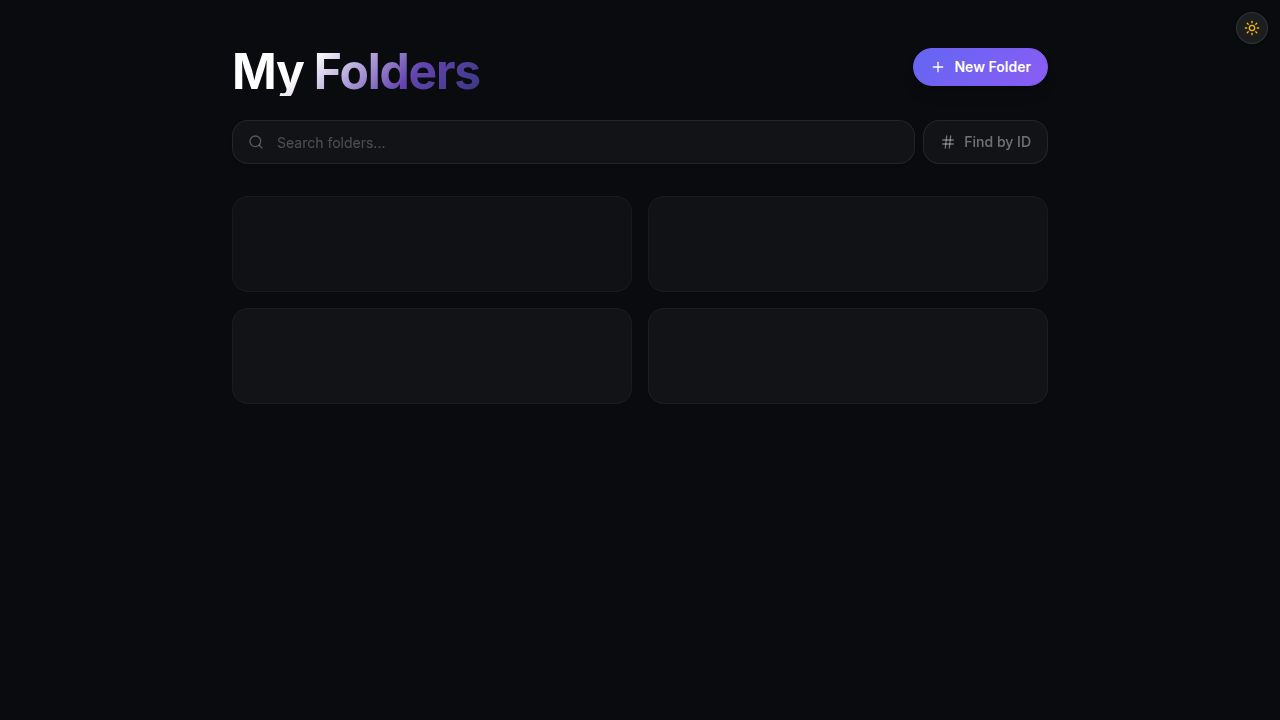
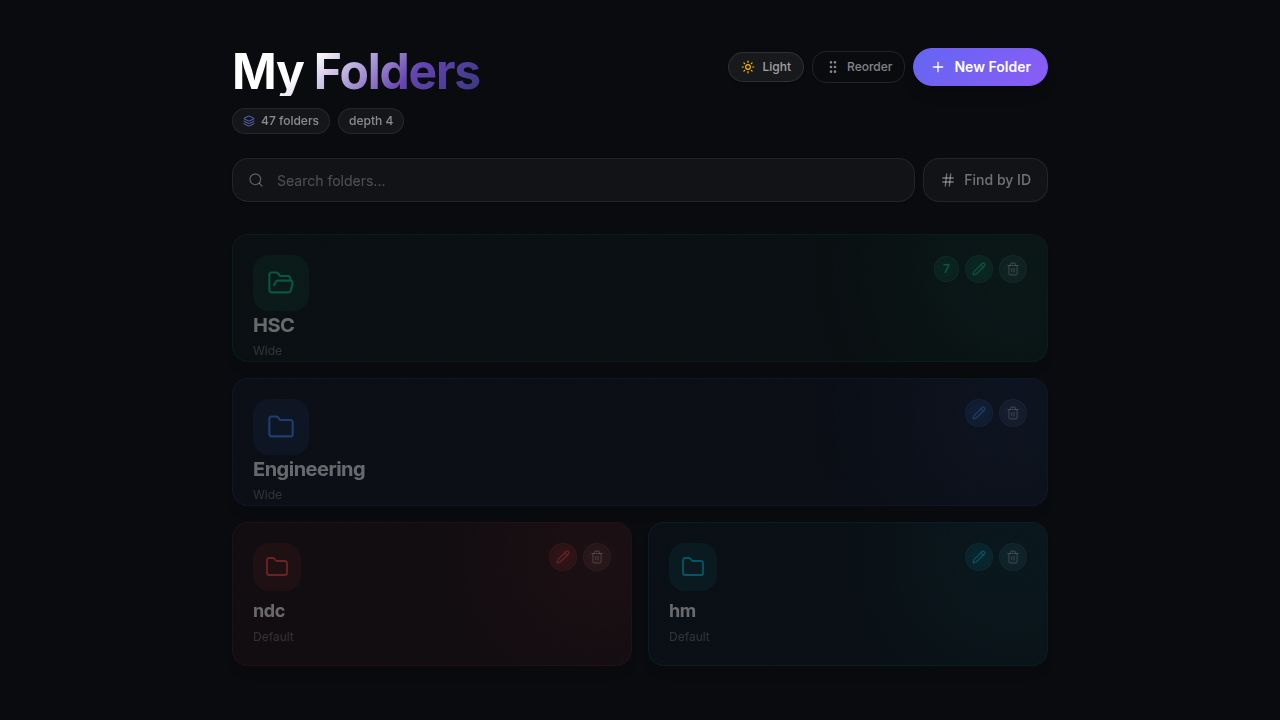
Add image zoom and protect content while fixing exam result display
Introduce image zoom functionality with a lightbox, prevent content copying from images, and remove unnecessary elements from the exam results screen.

Replit-Commit-Author: Agent
Replit-Commit-Session-Id: decb9cae-3adf-4033-99ce-917f5bf31aae
Replit-Commit-Checkpoint-Type: full_checkpoint
Replit-Commit-Event-Id: 59363995-9468-4ee9-b869-a151f555bab7
Replit-Commit-Screenshot-Url: https://storage.googleapis.com/screenshot-production-us-central1/35fb9501-b802-43f6-bf9f-67f5e1f770c3/decb9cae-3adf-4033-99ce-917f5bf31aae/bYCz18d
Replit-Helium-Checkpoint-Created: true

diff --git a/artifacts/folder-app/src/pages/QuestionSetView.tsx b/artifacts/folder-app/src/pages/QuestionSetView.tsx
@@ -112,6 +112,7 @@ interface QCardProps {
   examSubmitted?: boolean;
   onExamSelect?: (letter: string) => void;
   cardRef?: (el: HTMLDivElement | null) => void;
+  onImageZoom?: (url: string) => void;
   // multi-select
   selectMode?: boolean;
   selected?: boolean;
@@ -122,7 +123,7 @@ interface QCardProps {
 
 function QuestionCard({ q, serialNum, totalCount, onUpdated, onDeleted, onReorderToPosition,
   mode, practiceSelected, practiceRevealed, onPracticeSelect,
-  examSelected, examSubmitted, onExamSelect, cardRef,
+  examSelected, examSubmitted, onExamSelect, cardRef, onImageZoom,
   selectMode, selected, onToggleSelect, isHighlighted, isLight = false }: QCardProps) {
   const { toast } = useToast();
   const [editing, setEditing] = useState(false);
@@ -536,7 +537,13 @@ function QuestionCard({ q, serialNum, totalCount, onUpdated, onDeleted, onReorde
             {q.stemImages && q.stemImages.length > 0 && (
               <div className="mb-3 space-y-2">
                 {q.stemImages.map((url, i) => url && (
-                  <img key={i} src={url} alt="" loading="lazy" className="max-w-full rounded-lg border border-white/15 bg-white p-1" onError={handleStemImageError} />
+                  <img key={i} src={url} alt="" loading="lazy"
+                    draggable={false}
+                    className="max-w-full rounded-lg border border-white/15 bg-white p-1 select-none cursor-zoom-in"
+                    style={{ userSelect: "none" }}
+                    onError={handleStemImageError}
+                    onContextMenu={e => e.preventDefault()}
+                    onClick={() => onImageZoom?.(url)} />
                 ))}
               </div>
             )}
@@ -1322,8 +1329,6 @@ function ExamResults({ questions, examAnswers, onRetry, onBack, negativeMarking 
                           <span className="relative z-[1] font-bold w-4" style={{ color: ltrColor }}>{opt.letter}</span>
                           <span className="relative z-[1] flex-1" style={{ color: txtColor }}><MathText text={opt.text} imageBlock={false} /></span>
                           <span className="relative z-[1] text-[11px] font-bold tabular-nums flex-shrink-0" style={{ color: pctColor }}>{pct}%</span>
-                          {showGreen && <Check className="relative z-[1] w-3.5 h-3.5 flex-shrink-0" style={{ color: isLight ? "#15803d" : "#4ade80" }} />}
-                          {showSky && <span className="relative z-[1] text-[10px] font-semibold flex-shrink-0" style={{ color: isLight ? "#0284c7" : "#38bdf8" }}>ans</span>}
                         </div>
                       );
                     })}
@@ -1475,6 +1480,9 @@ export function QuestionSetView() {
   const [examAutoScroll, setExamAutoScroll] = useState(false);
 
   const cardRefs = useRef<(HTMLDivElement | null)[]>([]);
+  // Pending scroll: set inside a setState updater, consumed by useEffect after commit
+  const pendingScrollRef = useRef<{ idx: number; footerH: number } | null>(null);
+  const [zoomedImg, setZoomedImg] = useState<string | null>(null);
 
   // Scroll a card into the visible band between the fixed header and optional footer.
   // Uses window.scrollBy so it works regardless of scroll-container nesting.
@@ -1491,6 +1499,16 @@ export function QuestionSetView() {
     if (Math.abs(delta) < 8) return;
     window.scrollBy({ top: delta, behavior: "smooth" });
   }, []);
+
+  // Execute pending scroll AFTER React commits the state update to DOM
+  useEffect(() => {
+    if (!pendingScrollRef.current) return;
+    const { idx, footerH } = pendingScrollRef.current;
+    pendingScrollRef.current = null;
+    const t = setTimeout(() => smoothScrollToCard(idx, footerH), 40);
+    return () => clearTimeout(t);
+  // eslint-disable-next-line react-hooks/exhaustive-deps
+  }, [practiceCurrentIdx, examCurrentIdx, smoothScrollToCard]);
 
   const questions = localQuestions ?? data?.questions ?? [];
   const visible = questions.filter(q => !q.hidden);
@@ -1579,13 +1597,14 @@ export function QuestionSetView() {
         setPracticeCurrentIdx(prev => {
           const nextIdx = visible.findIndex((q, i) => i > prev && !practiceAnswers[q.id] && q.id !== questionId);
           const advance = nextIdx !== -1 ? nextIdx : prev + 1 < visible.length ? prev + 1 : prev;
-          smoothScrollToCard(advance, PRACTICE_FOOTER);
+          // Store target; useEffect will run smoothScrollToCard after commit
+          pendingScrollRef.current = { idx: advance, footerH: PRACTICE_FOOTER };
           return advance;
         });
       }, 900);
     }
   // eslint-disable-next-line react-hooks/exhaustive-deps
-  }, [visible, practiceAnswers, autoScroll, smoothScrollToCard]);
+  }, [visible, practiceAnswers, autoScroll]);
 
   const handleExamSelect = useCallback((questionId: number, letter: string) => {
     setExamAnswers(prev => ({ ...prev, [questionId]: letter }));
@@ -1594,13 +1613,51 @@ export function QuestionSetView() {
         setExamCurrentIdx(prev => {
           const nextIdx = visible.findIndex((q, i) => i > prev && !examAnswers[q.id] && q.id !== questionId);
           const advance = nextIdx !== -1 ? nextIdx : prev + 1 < visible.length ? prev + 1 : prev;
-          smoothScrollToCard(advance, EXAM_FOOTER);
+          pendingScrollRef.current = { idx: advance, footerH: EXAM_FOOTER };
           return advance;
         });
       }, 700);
     }
   // eslint-disable-next-line react-hooks/exhaustive-deps
-  }, [visible, examAnswers, examAutoScroll, smoothScrollToCard]);
+  }, [visible, examAnswers, examAutoScroll]);
+
+  // Keyboard shortcuts: A/B/C/D select MCQ option, ←/→ navigate between questions
+  useEffect(() => {
+    const inPractice = mode === "practice";
+    const inExam = mode === "exam" && examStarted && !examSubmitted;
+    if (!inPractice && !inExam) return;
+    const onKey = (e: KeyboardEvent) => {
+      const tag = (e.target as HTMLElement).tagName;
+      if (tag === "INPUT" || tag === "TEXTAREA" || (e.target as HTMLElement).isContentEditable) return;
+      const key = e.key;
+      const keyLow = key.toLowerCase();
+      const OPTS = ["a", "b", "c", "d", "e"];
+      if (inPractice) {
+        const cq = visible[practiceCurrentIdx];
+        if (OPTS.includes(keyLow) && cq?.type === "mcq" && !practiceAnswers[cq.id]) {
+          handlePracticeSelect(cq.id, keyLow.toUpperCase()); e.preventDefault();
+        } else if (key === "ArrowRight" || key === "ArrowDown") {
+          navigatePractice(practiceCurrentIdx + 1); e.preventDefault();
+        } else if (key === "ArrowLeft" || key === "ArrowUp") {
+          navigatePractice(practiceCurrentIdx - 1); e.preventDefault();
+        }
+      }
+      if (inExam) {
+        const cq = visible[examCurrentIdx];
+        if (OPTS.includes(keyLow) && cq?.type === "mcq") {
+          handleExamSelect(cq.id, keyLow.toUpperCase()); e.preventDefault();
+        } else if (key === "ArrowRight" || key === "ArrowDown") {
+          navigateExam(examCurrentIdx + 1); e.preventDefault();
+        } else if (key === "ArrowLeft" || key === "ArrowUp") {
+          navigateExam(examCurrentIdx - 1); e.preventDefault();
+        }
+      }
+    };
+    window.addEventListener("keydown", onKey);
+    return () => window.removeEventListener("keydown", onKey);
+  // eslint-disable-next-line react-hooks/exhaustive-deps
+  }, [mode, examStarted, examSubmitted, visible, practiceCurrentIdx, examCurrentIdx,
+      practiceAnswers, handlePracticeSelect, handleExamSelect, navigatePractice, navigateExam]);
 
   const { remaining: timerRemaining, formatted: timerFormatted, adjustTime: adjustTimerTime } = useExamTimer(
     mode === "exam" && examStarted && !examSubmitted ? selectedDuration : null,
@@ -1899,6 +1956,22 @@ export function QuestionSetView() {
   const answeredCount = isExam ? Object.keys(examAnswers).length : Object.keys(practiceAnswers).length;
 
   return (
+    <>
+    {/* ── Image zoom lightbox ── */}
+    {zoomedImg && (
+      <div className="fixed inset-0 z-[200] bg-black/96 flex items-center justify-center p-4 animate-in fade-in duration-150"
+        onClick={() => setZoomedImg(null)}>
+        <button className="absolute top-4 right-4 w-10 h-10 rounded-full bg-white/10 hover:bg-white/20 flex items-center justify-center transition-colors z-10"
+          onClick={() => setZoomedImg(null)}>
+          <X className="w-5 h-5 text-white/80" />
+        </button>
+        <img src={zoomedImg} alt="" draggable={false}
+          className="max-w-full max-h-[90vh] object-contain rounded-xl select-none"
+          style={{ userSelect: "none" }}
+          onContextMenu={e => e.preventDefault()}
+          onClick={e => e.stopPropagation()} />
+      </div>
+    )}
     <div className="min-h-[100dvh] flex flex-col">
       {/* ── Sticky header ── */}
       <div className="fixed top-0 left-0 right-0 z-20 bg-background/95 backdrop-blur-md border-b border-white/8">
@@ -1982,6 +2055,7 @@ export function QuestionSetView() {
             examSubmitted={isExam ? examSubmitted : undefined}
             onExamSelect={isExam ? (letter) => handleExamSelect(q.id, letter) : undefined}
             cardRef={(el) => { cardRefs.current[idx] = el; }}
+            onImageZoom={setZoomedImg}
             selectMode={isSolution ? selectMode : undefined}
             selected={isSolution ? selectedIds.has(q.id) : undefined}
             onToggleSelect={isSolution ? () => toggleSelect(q.id) : undefined}
@@ -2158,5 +2232,6 @@ export function QuestionSetView() {
         />
       )}
     </div>
+    </>
   );
 }